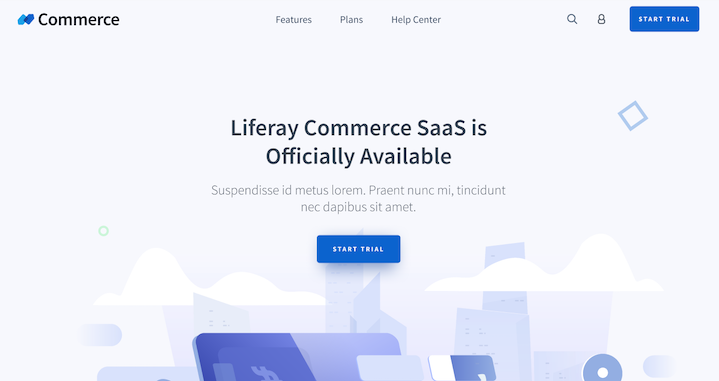
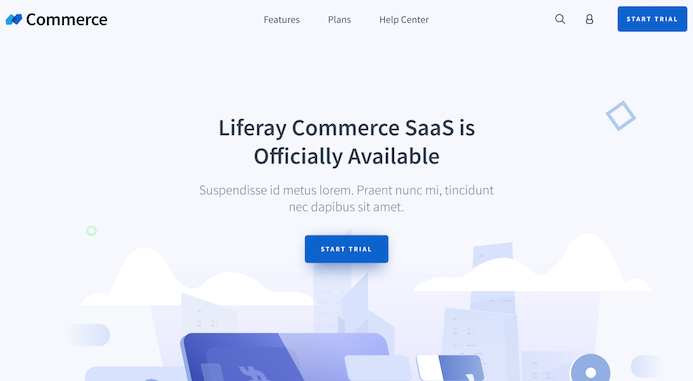
COMMERCE-3637 Site initializer completion, start trial init layout, tweaks

diff --git a/modules/dxp/apps/osb/osb-commerce/osb-commerce-provisioning/osb-commerce-provisioning-theme/src/css/components/_navbars.scss b/modules/dxp/apps/osb/osb-commerce/osb-commerce-provisioning/osb-commerce-provisioning-theme/src/css/components/_navbars.scss
@@ -133,4 +133,8 @@
 			}
 		}
 	}
+
+	.site-name {
+		text-transform: capitalize;
+	}
 }

diff --git a/modules/dxp/apps/osb/osb-commerce/osb-commerce-provisioning/osb-commerce-provisioning-site-initializer/src/main/resources/com/liferay/osb/commerce/provisioning/site/initializer/internal/dependencies/fragments/layouts/start_trial/index.html b/modules/dxp/apps/osb/osb-commerce/osb-commerce-provisioning/osb-commerce-provisioning-site-initializer/src/main/resources/com/liferay/osb/commerce/provisioning/site/initializer/internal/dependencies/fragments/layouts/start_trial/index.html
@@ -1,0 +1,1 @@
+<lfr-widget-start-trial></lfr-widget-start-trial>

diff --git a/modules/dxp/apps/osb/osb-commerce/osb-commerce-provisioning/osb-commerce-provisioning-site-initializer/src/main/java/com/liferay/osb/commerce/provisioning/site/initializer/internal/OSBCommerceProvisioningSiteInitializer.java b/modules/dxp/apps/osb/osb-commerce/osb-commerce-provisioning/osb-commerce-provisioning-site-initializer/src/main/java/com/liferay/osb/commerce/provisioning/site/initializer/internal/OSBCommerceProvisioningSiteInitializer.java
@@ -81,6 +81,7 @@ import org.osgi.service.component.annotations.Reference;
 
 /**
  * @author Ivica Cardic
+ * @author Gianmarco Brunialti Masera
  */
 @Component(
 	immediate = true,
@@ -129,58 +130,15 @@ public class OSBCommerceProvisioningSiteInitializer implements SiteInitializer {
 			LayoutPageTemplateCollection layoutPageTemplateCollection =
 				_addLayoutPageTemplateCollection(serviceContext);
 
-			List<FragmentEntry> homeFragmentEntries = _addFragmentEntries(
+			List<FragmentEntry> startTrialEntries = _addFragmentEntries(
 				fragmentCollection.getFragmentCollectionId(),
-				_PATH + "/fragments/home", serviceContext);
-
-			List<FragmentEntry> downloadFragmentEntries = _addFragmentEntries(
-				fragmentCollection.getFragmentCollectionId(),
-				_PATH + "/fragments/download", serviceContext);
-
-			homeFragmentEntries.addAll(downloadFragmentEntries);
-
-			List<FragmentEntry> featuresFragmentEntries = _addFragmentEntries(
-				fragmentCollection.getFragmentCollectionId(),
-				_PATH + "/fragments/features", serviceContext);
-
-			homeFragmentEntries.addAll(featuresFragmentEntries);
-
-			List<FragmentEntry> headerFragmentEntries = _addFragmentEntries(
-				fragmentCollection.getFragmentCollectionId(),
-				_PATH + "/fragments/common/header", serviceContext);
-
-			FragmentEntry headerFullscreenFragmentEntry = _getFragmentEntry(
-				headerFragmentEntries, "Header");
-
-			downloadFragmentEntries.add(0, headerFullscreenFragmentEntry);
-			featuresFragmentEntries.add(0, headerFullscreenFragmentEntry);
-			homeFragmentEntries.add(0, headerFullscreenFragmentEntry);
-
-			List<FragmentEntry> footerFragmentEntries = _addFragmentEntries(
-				fragmentCollection.getFragmentCollectionId(),
-				_PATH + "/fragments/common/footer", serviceContext);
-
-			downloadFragmentEntries.addAll(footerFragmentEntries);
-			featuresFragmentEntries.addAll(footerFragmentEntries);
-			homeFragmentEntries.addAll(footerFragmentEntries);
+				_PATH + "/fragments/layouts/start_trial", serviceContext);
 
 			_addLayout(
 				layoutPageTemplateCollection.
 					getLayoutPageTemplateCollectionId(),
-				"Home", homeFragmentEntries, _PATH + "/fragments/home",
-				serviceContext);
-
-			_addLayout(
-				layoutPageTemplateCollection.
-					getLayoutPageTemplateCollectionId(),
-				"Features", featuresFragmentEntries,
-				_PATH + "/fragments/features", serviceContext);
-
-			_addLayout(
-				layoutPageTemplateCollection.
-					getLayoutPageTemplateCollectionId(),
-				"Download", downloadFragmentEntries,
-				_PATH + "/fragments/download", serviceContext);
+				"Start Trial", startTrialEntries,
+				_PATH + "/fragments/layouts/start_trial", serviceContext);
 		}
 		catch (Exception exception) {
 			_log.error(exception, exception);
@@ -485,8 +443,7 @@ public class OSBCommerceProvisioningSiteInitializer implements SiteInitializer {
 			"/dependencies";
 
 	private static final String _THEME_ID =
-		"osb-commerce-provisioning-theme_WAR_osb-commerce-provisioning-" +
-			"themetheme";
+		"provisioningsaastheme_WAR_osbcommerceprovisioningtheme";
 
 	private static final String _THEME_NAME = "Commerce SaaS Provisioning";
 

diff --git a/modules/dxp/apps/osb/osb-commerce/osb-commerce-provisioning/osb-commerce-provisioning-site-initializer/src/main/java/com/liferay/osb/commerce/provisioning/site/initializer/internal/servlet/taglib/OSBCommerceProvisioningTopHeadDynamicInclude.java b/modules/dxp/apps/osb/osb-commerce/osb-commerce-provisioning/osb-commerce-provisioning-site-initializer/src/main/java/com/liferay/osb/commerce/provisioning/site/initializer/internal/servlet/taglib/OSBCommerceProvisioningTopHeadDynamicInclude.java
@@ -41,6 +41,7 @@ import org.osgi.service.component.annotations.Reference;
 
 /**
  * @author Ivica Cardic
+ * @author Gianmarco Brunialti Masera
  */
 @Component(immediate = true, service = DynamicInclude.class)
 public class OSBCommerceProvisioningTopHeadDynamicInclude
@@ -113,8 +114,7 @@ public class OSBCommerceProvisioningTopHeadDynamicInclude
 	}
 
 	private static final String _THEME_ID =
-		"osb-commerce-provisioning-theme_WAR_osb-commerce-provisioning-" +
-			"themetheme";
+		"provisioningsaastheme_WAR_osbcommerceprovisioningtheme";
 
 	@Reference
 	private Portal _portal;

diff --git a/modules/dxp/apps/osb/osb-commerce/osb-commerce-provisioning/osb-commerce-provisioning-web/src/main/java/com/liferay/osb/commerce/provisioning/web/internal/portlet/TrialRegistrationPortlet.java b/modules/dxp/apps/osb/osb-commerce/osb-commerce-provisioning/osb-commerce-provisioning-web/src/main/java/com/liferay/osb/commerce/provisioning/web/internal/portlet/TrialRegistrationPortlet.java
@@ -37,6 +37,7 @@ import org.osgi.service.component.annotations.Reference;
 @Component(
 	immediate = true,
 	property = {
+		"com.liferay.fragment.entry.processor.portlet.alias=start-trial",
 		"com.liferay.portlet.add-default-resource=true",
 		"com.liferay.portlet.css-class-wrapper=portlet-osb-commerce-provisioning",
 		"com.liferay.portlet.display-category=category.osb-commerce-provisioning",
